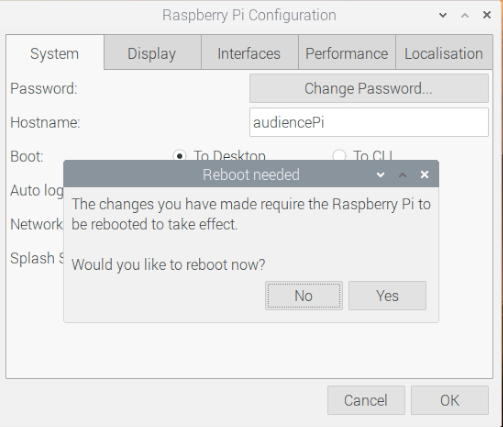
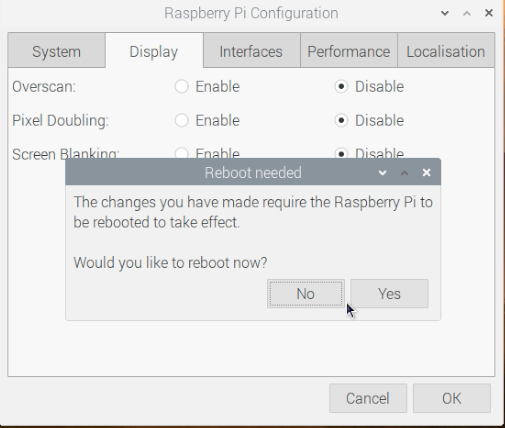
adding screen blanking message.

diff --git a/OSInstructions.md b/OSInstructions.md
@@ -9,6 +9,7 @@
 9. If the pi shows a black border around the screen (most of the time, it will), check off the box on the next screen. The black border is shown in the first image and the one below. Click next. ![](/images/blackBorder.png)
 10. Ideally, these steps should be done at church, therefore for the internet step, login to the Admin network. If done at a house, login to your personal wifi or plug in an ethernet cable to the raspberry pi. If you have no internet or will let it update at church later, skip this step by pressing skip. To complete it, click next. ![](/images/internet.png) Once signed in, the raspberry pi will update. It can take a while so it's better to do it on a faster internet connection like the church's. Click next to update it and let it sit while updating. ![](/images/update.png)
 11. Click Restart to restart the Pi. Give it a few moments to restart. ![](/images/restart.png)
-12. Not yet done! On more minor step is to rename the Raspberry Pi so we don't confuse them if we get more RPis in the future. This one is setup as the audience projector Pi so it'll be named appropriately. Under the raspberry pi menu, under preferences, choose Raspberry Pi Configuration. ![](/images/rpirename.png)
-13. Set the hostname to what was decided based on the pi's usage. Ideally, keep Pi in the name so it can be easily identified. Click OK and reboot the device. ![](/images/hostname.png) ![](/images/restart2.png)
+12. Rename the Raspberry Pi so we don't confuse them if we get more RPis in the future. Choose the name based on the usage and location. Ideally, keep Pi in the name so it can be easily identified as a pi. This one is setup as the audience projector Pi so it'll be named appropriately. Under the raspberry pi menu, under preferences, choose Raspberry Pi Configuration. ![](/images/rpirename.png)
+13. Set the hostname to what was decided. ![](/images/hostname.png)
+14. Switch to the display tab and set screen blanking to disable to ensure the Pi does not go to sleep while running. Click OK and choose to reboot the device now. ![](/images/screenBlankingDisable.png) ![](/images/restart2.png)
 14. Continue with the steps in the setupInstructions.md
